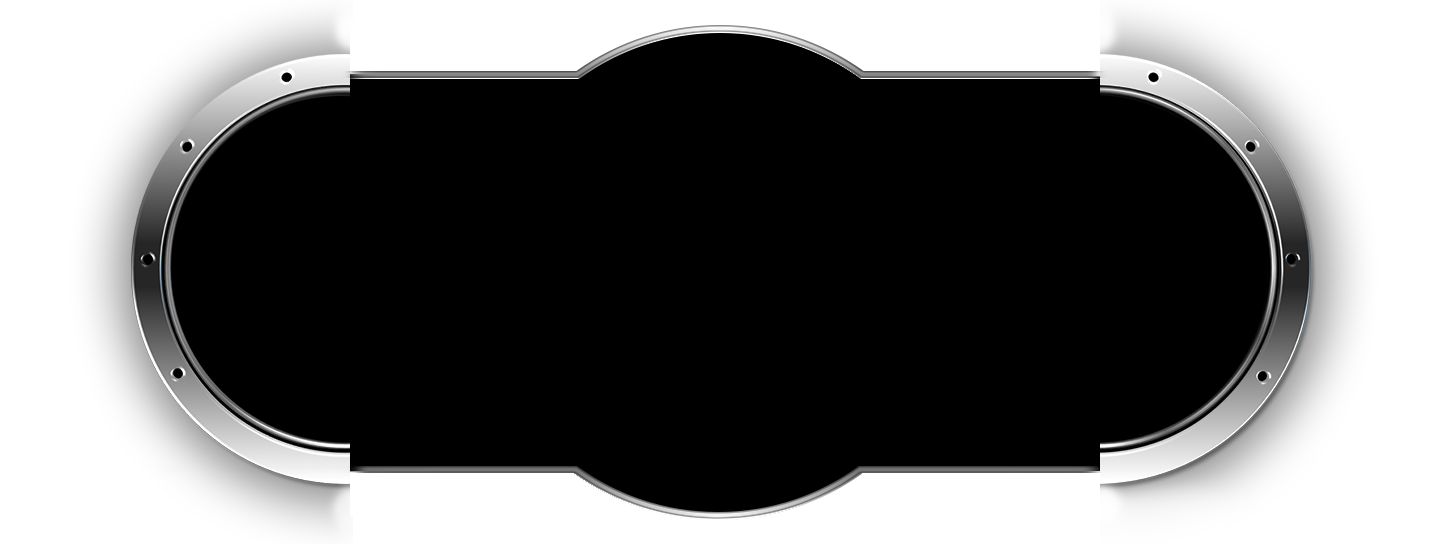
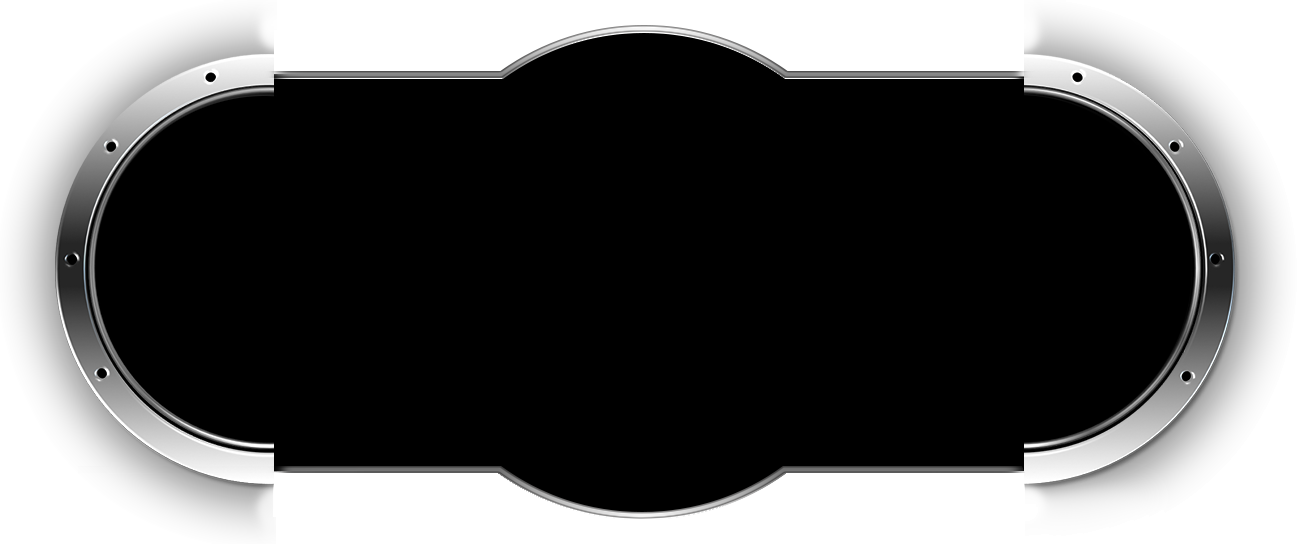
菜单切换背景图片移动问题修改，字体使用FontLoader加载字库字体

diff --git a/Yamaha/Theme2/Qml/Menu/MenuPanelWeir.qml b/Yamaha/Theme2/Qml/Menu/MenuPanelWeir.qml
@@ -12,8 +12,8 @@ CommonItem {
     property var statusAnimation: ["1","2","3"]
     property real startXLeft: 285;
     property real startXRight: 560;
-    property real endXLeft: -89;
-    property real endXRight: 939;
+    property real endXLeft: -95;
+    property real endXRight: 933;
     property real startMenuXLeft: 110;
     property real startMenuXRight: 620;
     property real endMenuXLeft: 460;
@@ -67,6 +67,8 @@ CommonItem {
         id: container
         anchors.top: parent.top
         anchors.topMargin: -25
+        anchors.fill: parent
+        color: "transparent"
         state: "";
         Image {
             id: left_panel
@@ -94,7 +96,8 @@ CommonItem {
         }
         Rectangle {
             id: menu_main_detail_background
-            x: 720
+            //x: 720
+            anchors.horizontalCenter: parent.horizontalCenter
             y: 52
             width: 0
             height: 500
@@ -152,13 +155,15 @@ CommonItem {
                 PropertyChanges { target: main_ring; opacity: 0 }
                 PropertyChanges { target: left_panel; x: endXLeft; opacity: 1.0 }
                 PropertyChanges { target: right_panel; x: endXRight; opacity: 1.0 }
-                PropertyChanges { target: menu_main_detail_background; x: 348; width: 755 }
+                //PropertyChanges { target: menu_main_detail_background; x: 348; width: 755 }
+                PropertyChanges { target: menu_main_detail_background; width: 755 }
             },
             State {
                 name: statusAnimation[1]
                 PropertyChanges { target: left_panel; x: startXLeft; opacity: 0 }
                 PropertyChanges { target: right_panel; x: startXRight; opacity: 0 }
-                PropertyChanges { target: menu_main_detail_background; x: 720; width: 0 }
+                //PropertyChanges { target: menu_main_detail_background; x: 720; width: 0 }
+                PropertyChanges { target: menu_main_detail_background; width: 0 }
                 PropertyChanges { target: center_light; opacity: 1.0 }
                 PropertyChanges { target: main_ring; opacity: 1.0 }
                 PropertyChanges { target: left_menu_panel; x: startMenuXLeft; opacity: 1.0 }
@@ -259,11 +264,13 @@ CommonItem {
                             easing.type: Easing.Linear
                             duration: 400
                         }
+                        /*
                         PropertyAnimation {
                             target: menu_main_detail_background
                             property: "x"
                             duration: 360
                         }
+                        */
                         PropertyAnimation {
                             target: menu_main_detail_background
                             property: "width"
@@ -298,11 +305,13 @@ CommonItem {
                             easing.type: Easing.Linear
                             duration: 400
                         }
+                        /*
                         PropertyAnimation {
                             target: menu_main_detail_background
                             property: "x"
                             duration: 440
                         }
+                        */
                         PropertyAnimation {
                             target: menu_main_detail_background
                             property: "width"

diff --git a/Yamaha/Component/TextRadioWeir.qml b/Yamaha/Component/TextRadioWeir.qml
@@ -9,7 +9,7 @@ Item {
     property string textTitle: "名称"
     property string textValue: "未命名"
     property string unitValue: "单位"
-    property string fontFamily: "Arial" //localFont.fontCurrentFzLt  //
+    property string fontFamily: localFont.name
     property real fontSize: 18;
     property string titleColor: "#ffffff"
     property string fontColor: "#ffffff"
@@ -20,7 +20,7 @@ Item {
     property bool checkRadioStatus: false
     property int radioType: 1;//2
     property real unitWidth: 30
-    //FontLoader { id: localFont; source: "../fonts/FzLt.TTF" }
+    FontLoader { id: localFont; source: "qrc:/Common/Fonts/WenQuanYiMicroHei.ttf" }
     Rectangle{anchors.fill: parent;color: "#000000"}
     Image {
         id: radio

diff --git a/Yamaha/Component/TextValueWeir.qml b/Yamaha/Component/TextValueWeir.qml
@@ -8,13 +8,13 @@ Item {
     property string textTitle: "名称"
     property string textValue: "未命名"
     property string unitValue: "单位"
-    property string fontFamily: "Arial" //localFont.fontCurrentFzLt  //
+    property string fontFamily: localFont.name
     property real fontSize: 18;
     property string titleColor: "#ffffff"//"#00deff"
     property string fontColor: "#ffffff"
     property string unitColor: "#ffffff"//"#00deff"
     property real unitWidth: 30
-    //FontLoader { id: localFont; source: "../fonts/FzLt.TTF" }
+    FontLoader { id: localFont; source: "qrc:/Common/Fonts/WenQuanYiMicroHei.ttf" }
     Rectangle{anchors.fill: parent;color: "#000000"}
     Text {
         id: text_title

diff --git a/Yamaha/Component/TurnPageWeir.qml b/Yamaha/Component/TurnPageWeir.qml
@@ -6,14 +6,14 @@ Item {
     property real textHeight: 30;
     property real textOpacity: 1.0;
     property bool fontItalic: false;
-    property string fontFamily: "Arial" //localFont.fontCurrentFzLt  //
+    property string fontFamily: localFont.name
     property real fontSize: 18;
     property string currentPageIndex: "1";
     property string totalPageCount: "4";
     property string currentPageColor: "#00deff";
     property string totalPageColor: "#ffffff";
     property bool fontBold: false
-    //FontLoader { id: localFont; source: "../fonts/FzLt.TTF" }
+    FontLoader { id: localFont; source: "qrc:/Common/Fonts/WenQuanYiMicroHei.ttf" }
     RowLayout {
         spacing: 5
         Text {

diff --git a/Yamaha/Component/TextFieldWeir.qml b/Yamaha/Component/TextFieldWeir.qml
@@ -7,11 +7,11 @@ Item {
     property real textOpacity: 1.0;
     property string textValue: "未命名";
     property bool fontItalic: false;
-    property string fontFamily: "Arial" //localFont.fontCurrentFzLt  //
+    property string fontFamily: localFont.name
     property real fontSize: 18;
     property string fontColor: "#ffffff";
     property bool fontBold: false
-    //FontLoader { id: localFont; source: "../fonts/FzLt.TTF" }
+    FontLoader { id: localFont; source: "qrc:/Common/Fonts/WenQuanYiMicroHei.ttf" }
     Text {
         id: textfield
         opacity: textOpacity

diff --git a/Yamaha/Component/ListViewSelectWeir.qml b/Yamaha/Component/ListViewSelectWeir.qml
@@ -8,9 +8,9 @@ Item {
     property real listViewWidth: 420
     property real listViewHeight: 200
     property var listModel;
-    property string fontFamily: "Arial" //localFont.fontCurrentFzLt  //
+    property string fontFamily: localFont.name
     property var listViewSelectId: listview_select
-    //FontLoader { id: localFont; source: "../fonts/FzLt.TTF" }
+    FontLoader { id: localFont; source: "qrc:/Common/Fonts/WenQuanYiMicroHei.ttf" }
     ListView {
         id: listview_select
         width: listViewWidth;
